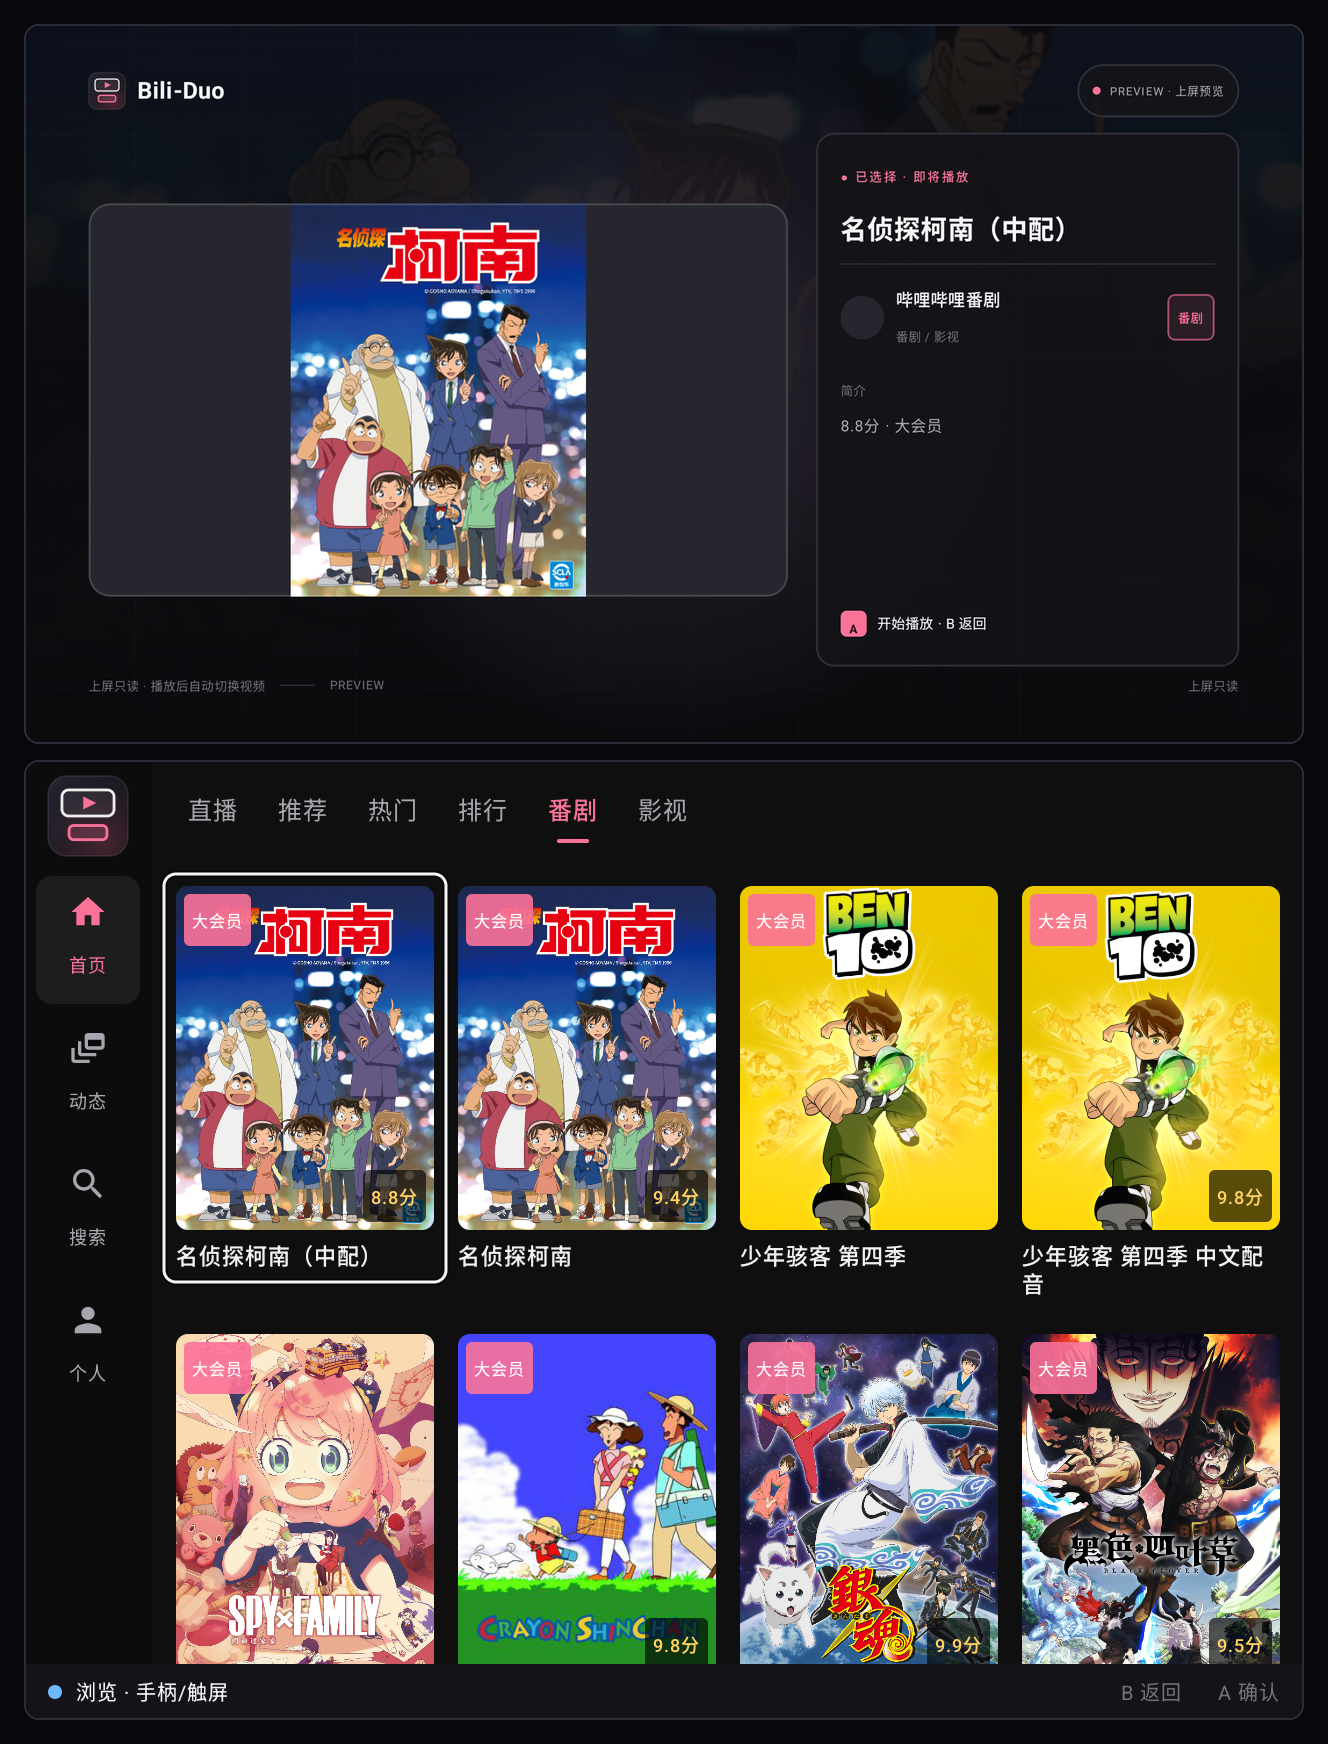
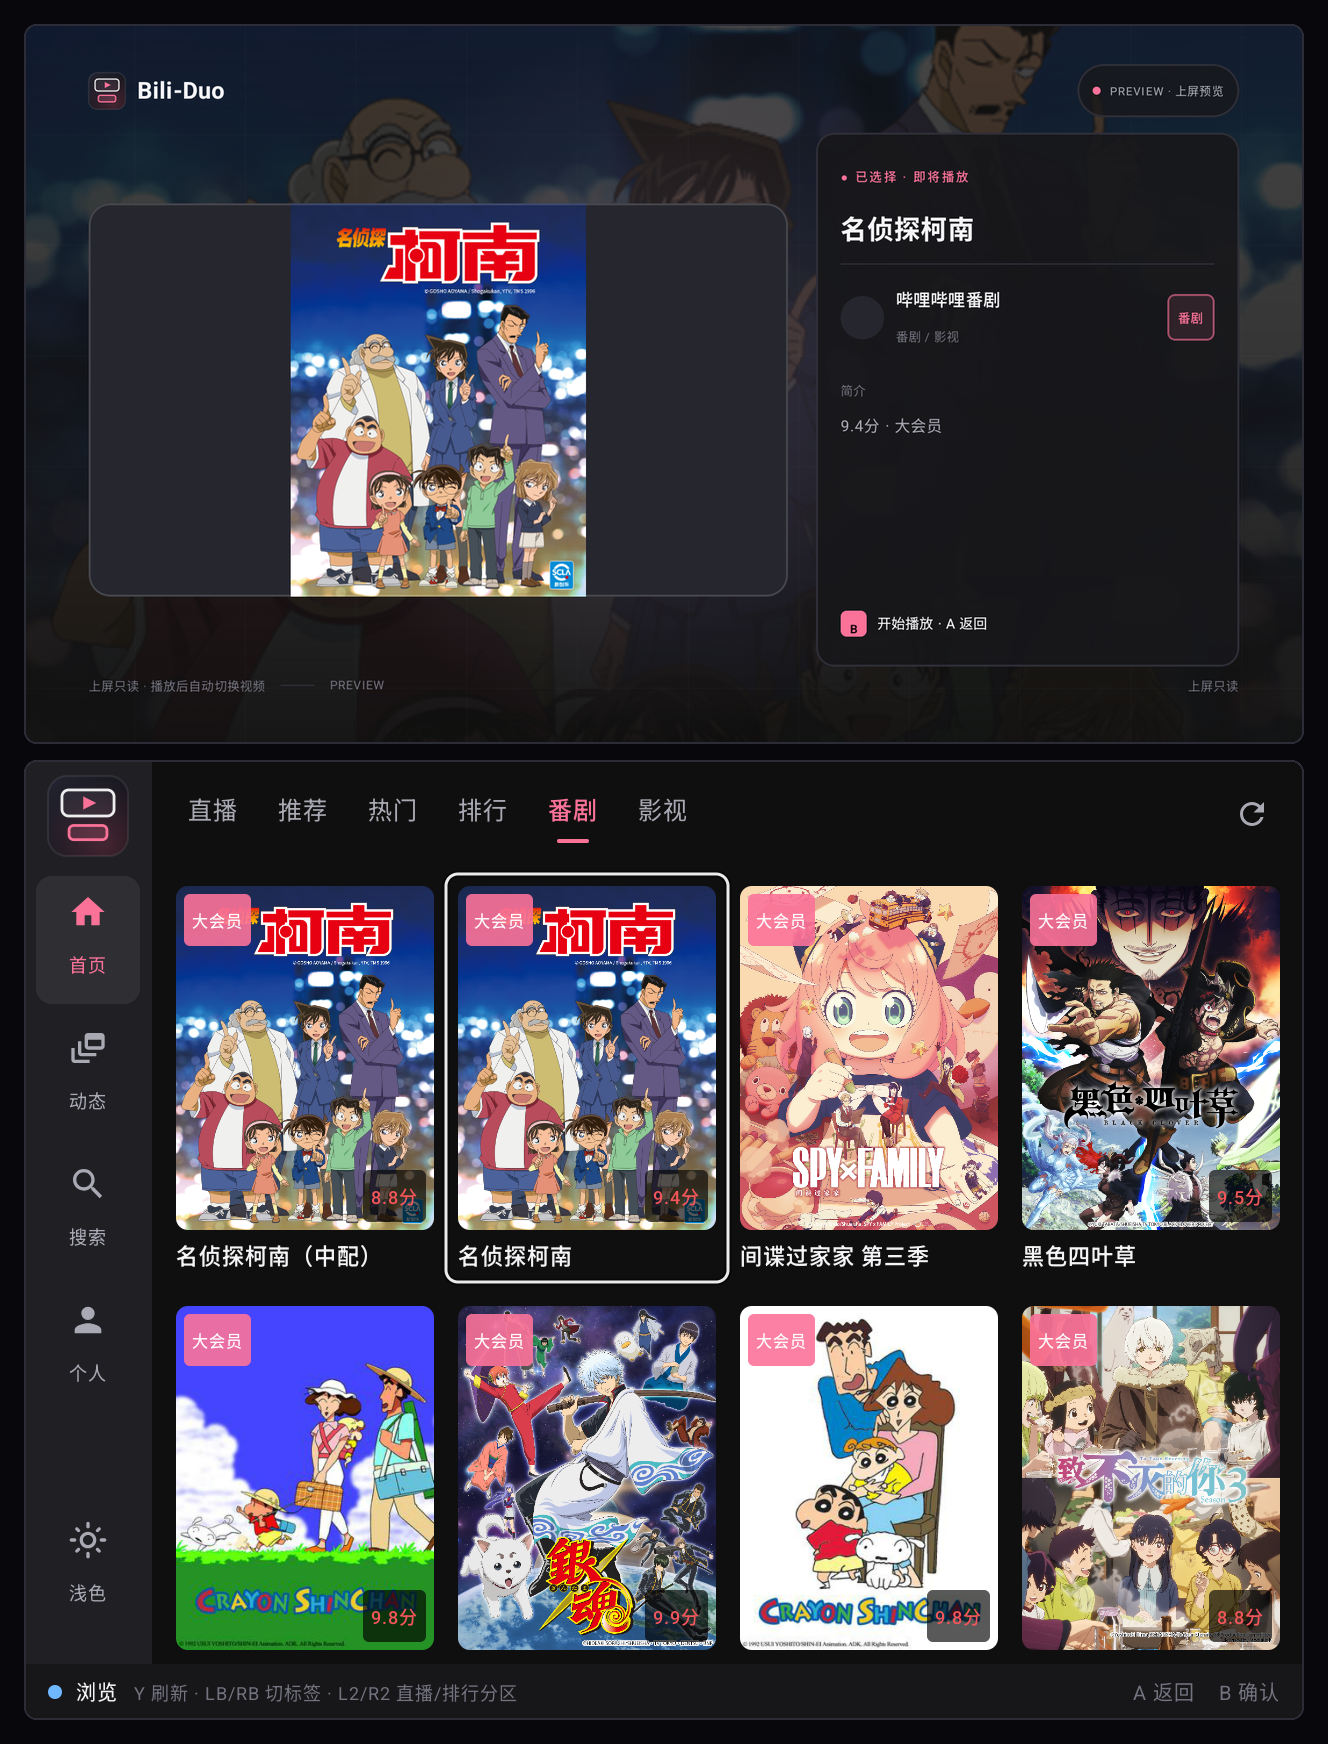
docs: refresh readme screenshots and rc57 feature notes
- Recapture all dual-screen pairs on Retroid Pocket Duo with rc57
- Add light theme, watch later, and dynamic feed pairs
- Update test counts, release links and known limitations

diff --git a/README.md b/README.md
@@ -37,15 +37,18 @@ Compose 焦点树，没有「现在在控上屏还是下屏」的模式切换，
 
 每张图为上下屏对照：上方是 1920×1080 上屏，下方是 1280×960 下屏。
 
-| 首页 · 排行（焦点预览） | 番剧 / 影视（PGC） |
+| 首页 · 排行（焦点预览） | 推荐 · 亮色主题 |
 | --- | --- |
-| ![首页双屏](docs/images/pairs/home.png) | ![番剧双屏](docs/images/pairs/anime.png) |
-| **直播列表（下滚收起二级行）** | **视频播放 · 弹幕 + 控制台** |
-| ![直播列表双屏](docs/images/pairs/live.png) | ![视频播放双屏](docs/images/pairs/player.png) |
-| **直播播放 · 实时弹幕 / SC** | |
-| ![直播播放双屏](docs/images/pairs/live-console.png) | |
+| ![首页双屏](docs/images/pairs/home.png) | ![亮色首页双屏](docs/images/pairs/light.png) |
+| **视频播放 · 弹幕 + 控制台** | **稍后再看（上屏预览）** |
+| ![视频播放双屏](docs/images/pairs/player.png) | ![稍后再看双屏](docs/images/pairs/watchlater.png) |
+| **直播列表 · 关注主播 / 分区** | **直播播放 · 历史弹幕 + 实时弹幕** |
+| ![直播列表双屏](docs/images/pairs/live.png) | ![直播播放双屏](docs/images/pairs/live-console.png) |
+| **番剧 / 影视（PGC）** | **关注动态** |
+| ![番剧双屏](docs/images/pairs/anime.png) | ![动态双屏](docs/images/pairs/dynamic.png) |
 
-截图使用公开推荐 / 直播流，不包含账号资料。
+截图来自 Retroid Pocket Duo 实机，只使用公开推荐、直播和动态内容，不包含账号
+UID、昵称或头像。
 
 ---
 
@@ -140,7 +143,7 @@ Compose 焦点树，没有「现在在控上屏还是下屏」的模式切换，
 | 图片 | Coil 2.6（含 GIF）、telephoto-zoomable |
 | 登录 | ZXing 二维码、极验 Geetest WebView |
 | 构建 | Gradle 8.7、AGP 8.4.0、JDK 17、R8 |
-| 测试 | JUnit4，228 个单元测试 |
+| 测试 | JUnit4，235 个单元测试 |
 | 架构 | Activity + Presentation、MVVM + StateFlow、单一 `PlayerController` |
 | 界面语言 | 简体中文（当前未做多语言资源） |
 
@@ -150,7 +153,7 @@ Compose 焦点树，没有「现在在控上屏还是下屏」的模式切换，
 
 ### 已验证
 
-- **单元测试**：232 个用例通过（`./gradlew testDebugUnitTest`）。
+- **单元测试**：235 个用例通过（`./gradlew testDebugUnitTest`）。
 - **MuMu（1280×960 / 320dpi）**：双屏壳层、首页、搜索、播放控制台、直播列表与
   HLS 播放、动态空态/登录态、单屏回退提示、签名包安装与冷启动。
 - **Retroid Pocket Duo 真机**：
@@ -297,26 +300,19 @@ Compose 焦点树，没有「现在在控上屏还是下屏」的模式切换，
 
 - **动态转发 / 发布**：点赞已实现；转发和图文/纯文本发布仍只读（需要创作者向
   payload、图片上传与更完整的发布 UI，暂不纳入本 RC）。
-- **PGC 大会员 / 付费集**：选集已显示 badge，播放失败会提示确认大会员状态；
-  没有内嵌购买/开通引导，VIP 专享集仍需大会员账号验证。
+- **PGC 大会员 / 付费集**：选集已显示 badge、试看与大会员提示；没有内嵌购买/
+  开通引导。
 - **单屏直播 / PGC**：目标设备始终双屏；无下屏时 VOD 走旧 `PlayerScreen`，
   直播/PGC 显示「此内容需要下屏控制台」提示，不进入播放。**非本 RC 目标**。
 
 ### 待验证（已实现，缺真机/账号验证）
 
-- **PGC 云端续播**：PGC 复用同一套 `last_play_time` 读取，尚未在真实剧集上验证。
-- **PGC 选集 badge**：代码已渲染 `PgcEpisode.badge`；当前账号无大会员，
-  VIP 季在无权限时返回 0 集，无法看到带 badge 的选集。
-- **非视频收藏取消**：已按 `type` 提交音频/合集取消请求，未在真实非视频条目验证。
-- **直播真实发送与关注**：UI、校验和 API 已接，但未在公开直播间留下测试消息；
-  需要明确授权后在无人直播间补测。
-- **PGC VIP 集**：未登录/无权限时整季显示「该番剧暂无可播放剧集，可能需要大会员」
-  （Duo 实测）；大会员账号的实际播放路径仍需补测。
 - **短信 / 密码 / 极验登录**：代码已接，目前只实际验证过扫码登录。
+- **系统返回键边界**：overlay 或输入法打开时 Return 的优先级仍需逐项复测。
+- **上屏直播弹幕**：是否严格按独立的「直播弹幕」设置渲染（真实直播间亮度/密度）。
 - **完整真机回归**：真实手柄长按 repeat、断连/热插拔、锁屏/休眠唤醒、
   120Hz/HDR、弱网/断网矩阵尚未系统覆盖。
 - **UP 主空间 / 搜索肩键**：代码已接同一套 `duoTabCycling`，尚未单独做真机点验。
-- **部分登录态路径**：收藏/关注真实卡片预览待补测。
 
 ### 已知限制
 
@@ -439,7 +435,7 @@ keyPassword=CHANGE_ME
 ### 测试产物
 
 `dist/` 只保留构建说明；APK 通过 GitHub Releases 或本地构建分发，不进入 Git 历史。
-当前 rc19 的哈希与说明见 [`dist/README.md`](dist/README.md)。
+当前 rc57 的哈希与说明见 [`dist/README.md`](dist/README.md)。
 
 ---
 
@@ -458,6 +454,7 @@ app/src/main/java/cn/xfangfang/biliduo/
 │   ├── player/                  // 控制台、PlayerController、弹幕、字幕
 │   ├── live/                    // 直播控制台、HLS、实时弹幕/SC
 │   ├── dynamic/                 // 动态流、详情、画册、文字阅读
+│   ├── watchlater/              // 稍后再看列表、进度/移除/上屏预览
 │   ├── top/                     // 上屏只读场景 + 弹幕/字幕层
 │   ├── channel/                 // UP 主空间
 │   ├── profile/ login/          // 个人中心、扫码/短信/密码登录

diff --git a/dist/README.md b/dist/README.md
@@ -4,6 +4,28 @@
 `*.apk`），需要时本地 `./gradlew assembleDebug` / `assembleRelease` 生成，或从
 GitHub Releases 下载。
 
+## 0.2.0-rc57（2026-11-13，第四版测试版，已发布）
+
+- `bili-duo-0.2.0-rc57-release.apk`
+  - R8 minify，正式 release keystore 签名；可覆盖安装同 key 的 rc55。
[1 lines of base64/hex data omitted]
+- `bili-duo-0.2.0-rc57-debug.apk`
+  - 调试签名，用于抓日志/开发测试；不能覆盖安装 release 版。
[1 lines of base64/hex data omitted]
+
+rc57 变更（在 rc56 功能基础上修复）：
+- 播放页简介 tab 焦点链：点赞/投币/收藏/下载按 Down 进入「稍后再看 / 分享」行；
+  分享 Up 回投币，稍后再看 Up 回点赞，不再跳到最右侧下载。
+- 个人页「交换上下屏显示」：焦点目标外层加 7dp 透明容器，滚动到底部不再裁环。
+- 稍后再看长合集/PGC：`duration > 24h` 的条目隐藏聚合时长、封面时长角标和
+  进度条，保留「共 NP」；owner 为空时不再出现前导「·」。
+- 235 单测通过。Duo 已验证焦点链、交换按钮环、长条目显示、移除与返回。
+- main 提交 `4714391`，tag `v0.2.0-rc57`，Pre-release：
+  https://github.com/0sour/bili-duo/releases/tag/v0.2.0-rc57
+
+> rc56 未发布（Release 已由用户撤销，tag 已删除），其功能全部包含在 rc57。
+> rc55 第三版见 https://github.com/0sour/bili-duo/releases/tag/v0.2.0-rc55
+
 ## 0.2.0-rc54（2026-11-09，第二版测试版）
 
 - `bili-duo-0.2.0-rc54-release.apk`
